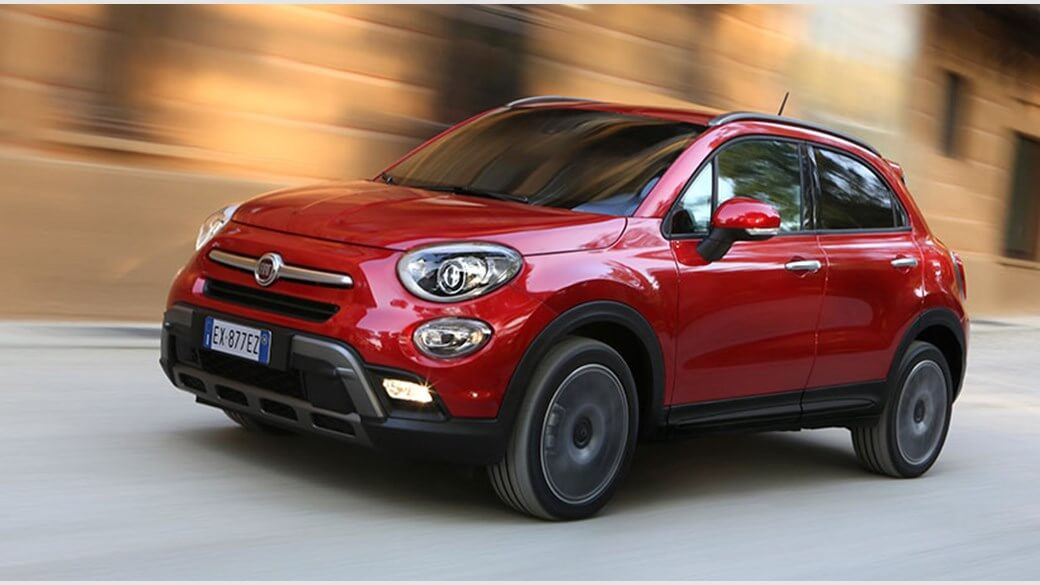
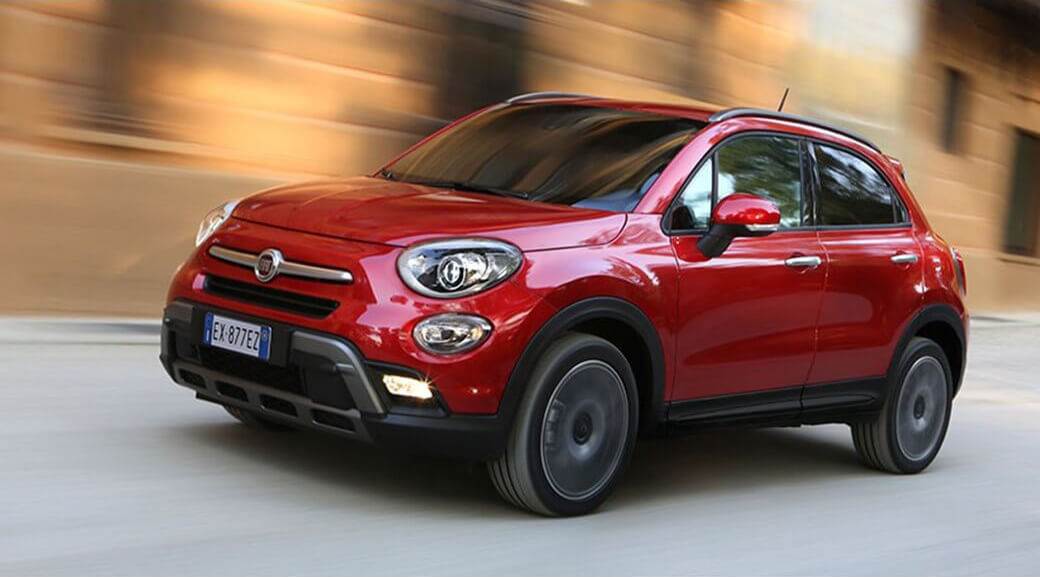
Clean Ups
* Cleaned up JavaScript imports.
* Removed white bars from image of Fiat 500X.

diff --git a/src/js/index.jsx b/src/js/index.jsx
@@ -1,15 +1,14 @@
 'use strict';
 // Imports
-const $ = require('jquery');
+global.$ = require('jquery');
 global.jQuery = $;
 global.Tether = require('tether');
-const bootstrap = require('bootstrap');
-const React = require('react');
-const ReactDOM = require('react-dom');
-// Global Vars
-const ModuleType = require('./_moduleType.jsx');
-const ModuleOptions = require('./_moduleOptions.jsx');
-const ModuleResults = require('./_moduleResults.jsx');
+const bootstrap = require('bootstrap'),
+	React = require('react'),
+	ReactDOM = require('react-dom'),
+	ModuleType = require('./_moduleType.jsx'),
+	ModuleOptions = require('./_moduleOptions.jsx'),
+	ModuleResults = require('./_moduleResults.jsx');
 // Data
 const data = require('../data/cars.json');
 for(let i = 0; i < data.models.length; i++) {

diff --git a/src/js/_moduleResults.jsx b/src/js/_moduleResults.jsx
@@ -1,9 +1,6 @@
 'use strict';
-const $ = require('jquery');
-global.jQuery = $;
-global.Tether = require('tether');
-const bootstrap = require('bootstrap');
-const React = require('react');
+const bootstrap = require('bootstrap'),
+	React = require('react');
 /**
  * The final page of the web app. Where final car results are shown.
  */

diff --git a/src/js/_moduleOptions.jsx b/src/js/_moduleOptions.jsx
@@ -1,6 +1,6 @@
 'use strict';
-const React = require('react');
-const ReactSlider = require('react-slider');
+const React = require('react'),
+	ReactSlider = require('react-slider');
 /**
  * The second page of the web app. Where secondary configuration takes place
  * before results are shown.

diff --git a/src/js/_moduleType.jsx b/src/js/_moduleType.jsx
@@ -1,6 +1,6 @@
 'use strict';
-const React = require('react');
-const Hammer = require('react-hammerjs');
+const React = require('react'),
+	Hammer = require('react-hammerjs');
 /**
  * First page of the web app. Contains the body types slider and the presets
  * slider.
